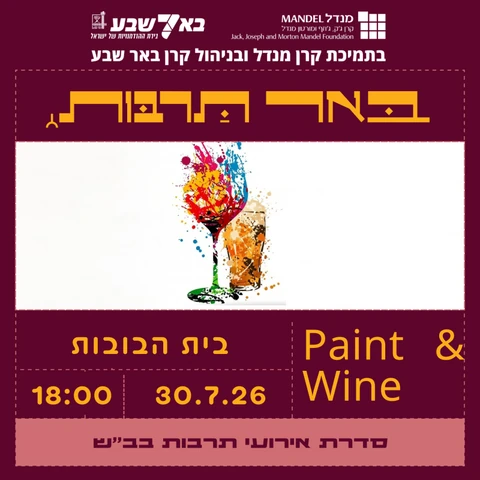
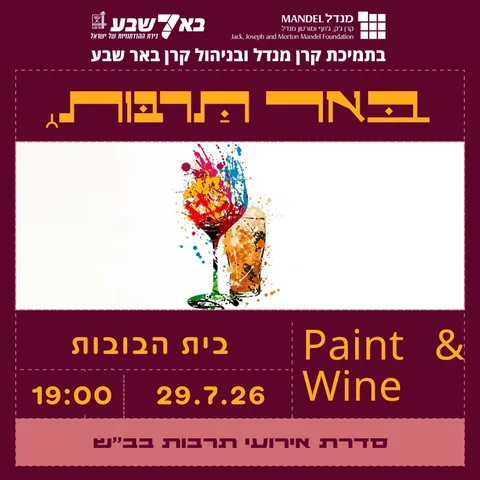
Update Paint & Wine event details

Changed region(s): [[0.375, 0.2812, 0.5938, 0.6562], [0.3125, 0.7812, 0.5625, 0.8438], [0.0938, 0.8125, 0.125, 0.8438]]

diff --git a/src/data/festival.ts b/src/data/festival.ts
@@ -87,15 +87,15 @@ export const events: FestivalEvent[] = [
   {
     id: "paint-wine",
     title: "Paint & Wine",
-    day: "27",
-    dateLabel: "27.7",
-    time: "21:00",
-    venue: "עשן הזמן",
+    day: "29",
+    dateLabel: "29.7",
+    time: "19:00",
+    venue: "בית הבובות",
     category: "workshop",
     price: "details",
     image: "/media/images/paint-wine-960.webp",
     accent: "teal",
-    short: "סדנת יצירה עם יין, מוזיקה ואווירה חופשית לפתיחת הפסטיבל."
+    short: "סדנת יצירה עם יין, צבע ומוזיקה באווירה חופשית בבית הבובות."
   },
   {
     id: "hymn-to-love",
@@ -594,7 +594,7 @@ export const eventDetails: Record<string, string[]> = {
     "מופע עירוני, חד וקצבי שמכניס את הקהל לאווירת הפסטיבל דרך הומור ישראלי חי."
   ],
   "paint-wine": [
-    "סדנת יצירה אינטימית בעשן הזמן, עם יין, צבע ומוזיקה.",
+    "סדנת יצירה אינטימית בבית הבובות, עם יין, צבע ומוזיקה.",
     "חוויה פתוחה לקהל שמבקשת לפרק את המרחק בין צופה ליוצר ולהתחיל את הערב בידיים עובדות."
   ],
   "hymn-to-love": [

diff --git a/src/App.tsx b/src/App.tsx
@@ -51,7 +51,7 @@ const priceLabel: Record<FestivalEvent["price"], string> = {
   details: "פרטים"
 };
 
-const IMAGE_VERSION = "program-summer-kids-update-20260714";
+const IMAGE_VERSION = "paint-wine-update-20260722";
 const PROGRAM_PDF_URL = "/media/docs/program-2026.pdf?v=program-20260714";
 
 type AccessibilityPreferenceKey = "largeText" | "highContrast" | "underlineLinks" | "reducedMotion";
